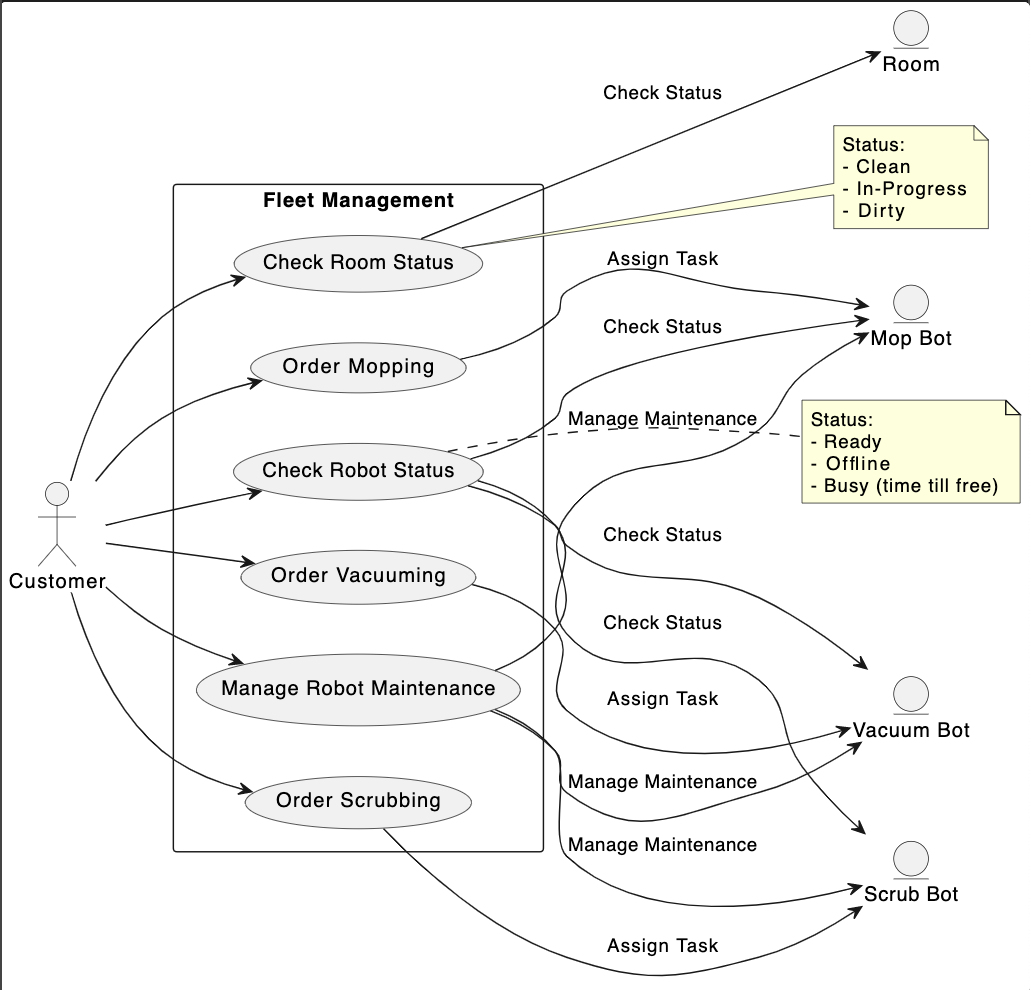
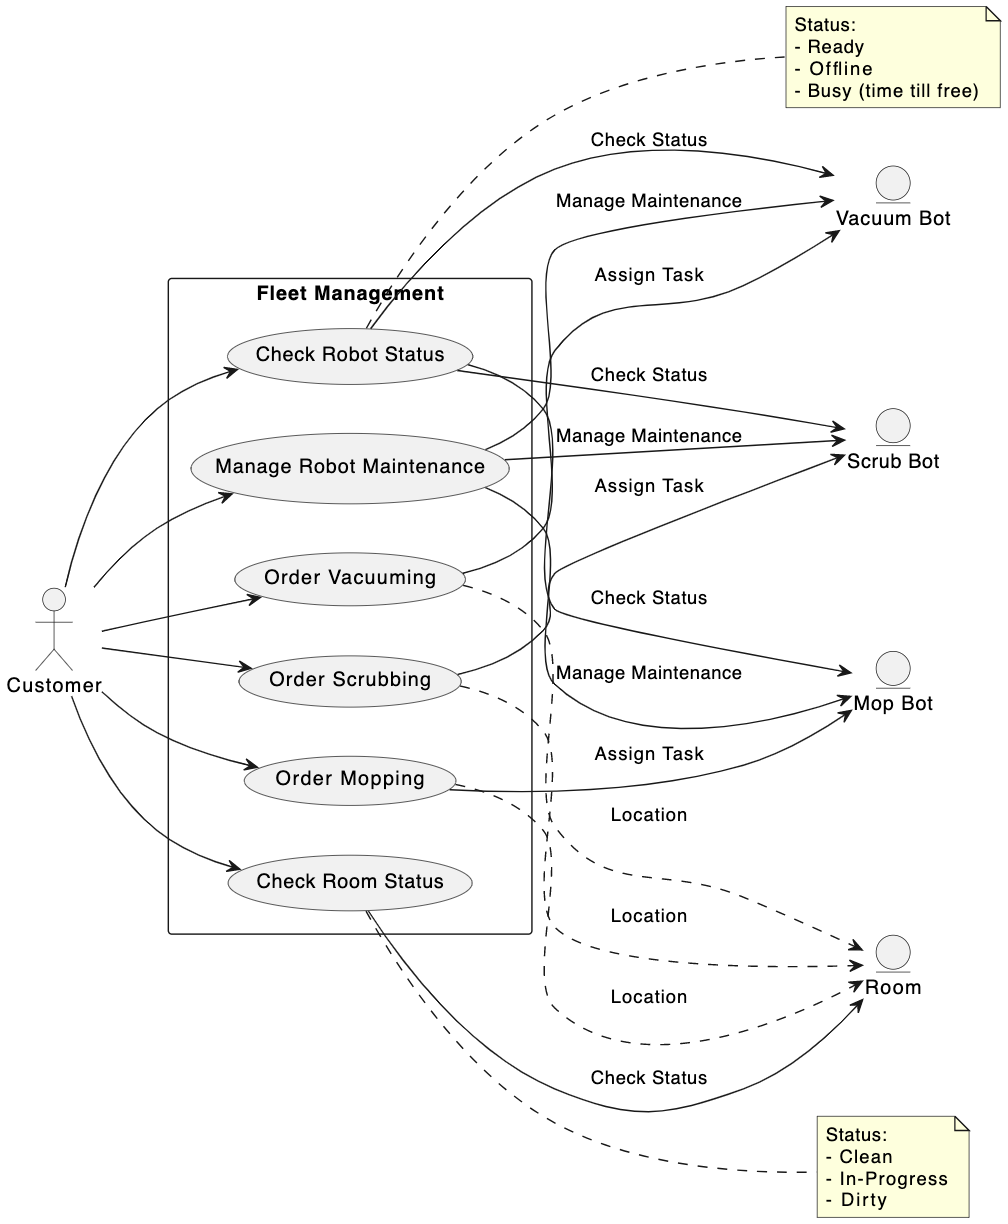
updated uml file and md

diff --git a/docs/design/USE_CASES.md b/docs/design/USE_CASES.md
@@ -52,5 +52,5 @@ The **customer** will be able to:
 - Robot status interacts with customer and every robot type.
 - Room cleanliness status interacts with rooms and customer.
 - Maintenance management interacts with customer and each robot type.
-- Mopping, vacuuming, and scrubbing use cases interact with customer and their respective robots.
+- Mopping, vacuuming, and scrubbing use cases interact with customer, room, and their respective robots.
 
